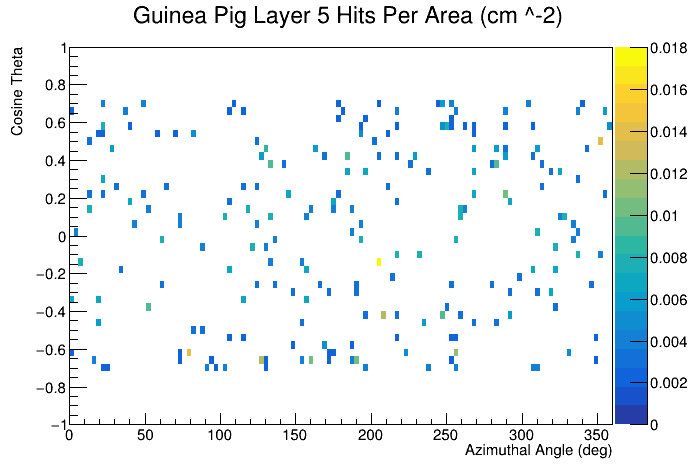
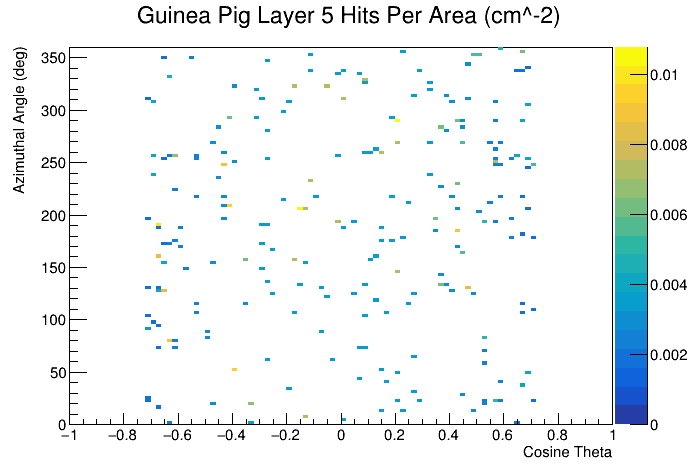
more switching axes on hit rate plots

diff --git a/python/hit_rate_mapper.py b/python/hit_rate_mapper.py
@@ -57,12 +57,12 @@ def z_coord(hit):
             return z
     raise ValueError(f"Not close enough to any of the disks {true_z}")
 
-# hit_map = {coord: {cos: {azimuthal: {particle: [0] * 100 \
-#             for particle in particles.values()} for azimuthal in range(0, 360, 3)} \
-#                 for cos in range(-50, 50, 2)} for coord in layer_radii + disk_z}
+hit_map = {coord: {cos: {azimuthal: {particle: [0] * 100 \
+            for particle in particles.values()} for azimuthal in range(0, 360, 3)} \
+                for cos in range(-100, 100, 2)} for coord in layer_radii + disk_z}
 
-hit_map = {coord: {cos: {azimuthal: [0] * 100 for azimuthal in range(0, 360, 3)} \
-                   for cos in range(-100, 100, 2)} for coord in layer_radii + disk_z}
+# hit_map = {coord: {cos: {azimuthal: [0] * 100 for azimuthal in range(0, 360, 3)} \
+                #    for cos in range(-100, 100, 2)} for coord in layer_radii + disk_z}
 
 for i in range(100):
     event = events[i]
@@ -81,26 +81,26 @@ for i in range(100):
             if hit.getEDep() < 0.000002:
                 continue
 
-            # mc = hit.getMCParticle()
-            # pdg = mc.getPDG()
+            mc = hit.getMCParticle()
+            pdg = mc.getPDG()
 
-            # if pdg in particles:
-            #     particle = particles[pdg]
-            # else:
-            #     continue
+            if pdg in particles:
+                particle = particles[pdg]
+            else:
+                continue
 
             cos_th = math.cos(theta(hit.getPosition().x, hit.getPosition().y, hit.getPosition().z))
             ph = phi(hit.getPosition().x, hit.getPosition().y) * (180 / math.pi)
-            # hit_map[coord][int(((50 * cos_th) // 2) * 2)][int((ph // 3) * 3)][particle][i] += 1
-            hit_map[coord][int(((100 * cos_th) // 2) * 2)][int((ph // 3) * 3)][i] += 1
+            hit_map[coord][int(((100 * cos_th) // 2) * 2)][int((ph // 3) * 3)][particle][i] += 1
+            # hit_map[coord][int(((100 * cos_th) // 2) * 2)][int((ph // 3) * 3)][i] += 1
 
 for layer_index in range(5):
-    # for particle in particles.values():
+    for particle in particles.values():
 
         r = true_radii[layer_index]
         hist = ROOT.TH2F("hit map", f"Guinea Pig Layer {layer_index + 1} Hits", 100, -1, 1, 120, 0, 360)
-        # hist.SetTitle(f"Guinea Pig Layer {layer_index + 1} {particle.capitalize()} Hits Per Area (cm ^-2);Azimuthal Angle (deg);Cosine Theta")
-        hist.SetTitle(f"Guinea Pig Layer {layer_index + 1} Raw Hits;Cosine Theta; Azimuthal Angle (deg)")
+        hist.SetTitle(f"Guinea Pig Layer {layer_index + 1} {particle.capitalize()} Hits Per Area (cm ^-2);Cosine Theta;Azimuthal Angle (deg)")
+        # hist.SetTitle(f"Guinea Pig Layer {layer_index + 1} Hits Per Area (cm^-2);Cosine Theta; Azimuthal Angle (deg)")
 
         for cos_th in range(-100, 100, 2):
             polar = math.acos((cos_th + 1) / 100)
@@ -109,14 +109,14 @@ for layer_index in range(5):
             area_den = math.sin(polar) ** 2
             area = area_num / area_den
             for azimuthal in range(0, 360, 3):
-                # hits = np.mean(hit_map[layer_radii[layer_index]][cos_th][azimuthal][particle])
-                hits = np.mean(hit_map[layer_radii[layer_index]][cos_th][azimuthal])
-                hist.SetBinContent((cos_th // 2) + 51, (azimuthal // 3) + 1, hits)
+                hits = np.mean(hit_map[layer_radii[layer_index]][cos_th][azimuthal][particle])
+                # hits = np.mean(hit_map[layer_radii[layer_index]][cos_th][azimuthal])
+                hist.SetBinContent((cos_th // 2) + 51, (azimuthal // 3) + 1, hits / area)
 
         hist.SetStats(0)
-        canvas = ROOT.TCanvas("hit map", f"Guinea Pig Layer {layer_index + 1} Raw Hits")
+        canvas = ROOT.TCanvas("hit map", f"Guinea Pig Layer {layer_index + 1} Hits")
         canvas.SetRightMargin(0.12)
         hist.Draw("colz")
         canvas.Update()
-        # canvas.SaveAs(f"../plots/hit_rates/gp_layer{layer_index + 1}_{particle}_hit_rate_test.png")
-        canvas.SaveAs(f"../plots/hit_rates/raw_hits/gp_layer{layer_index + 1}_raw_hit_rate.png")
+        canvas.SaveAs(f"../plots/hit_rates/{particle}/gp_layer{layer_index + 1}_{particle}_hit_rate.png")
+        # canvas.SaveAs(f"../plots/hit_rates/per_area/gp_layer{layer_index + 1}_hit_rate.png")
